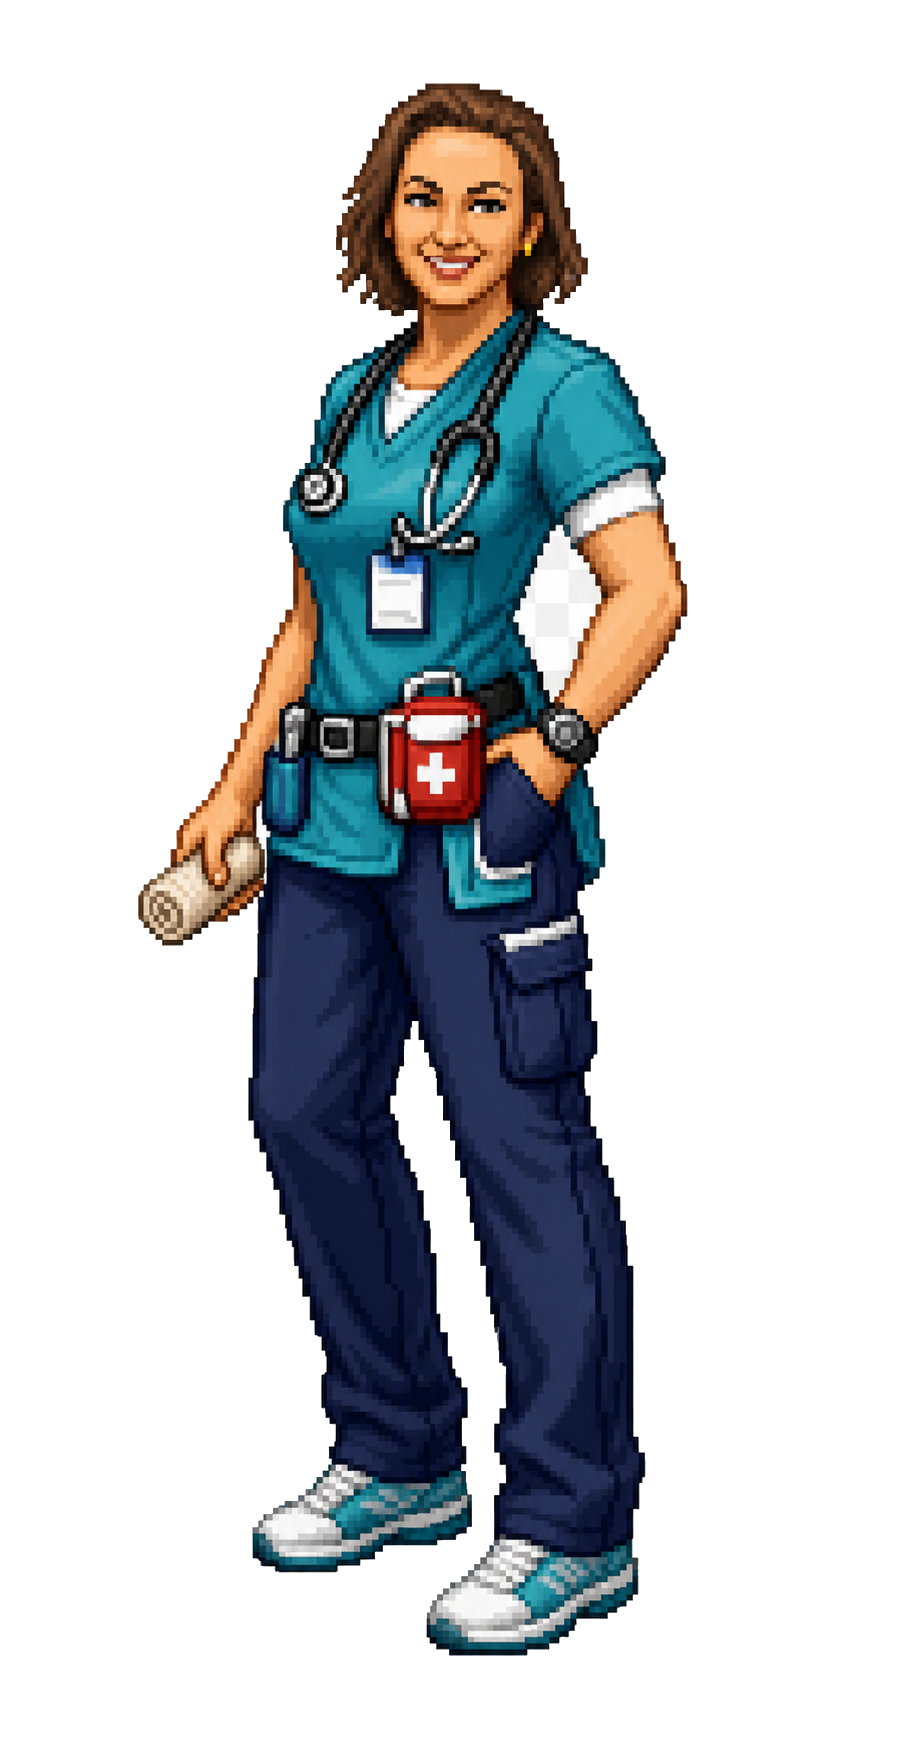
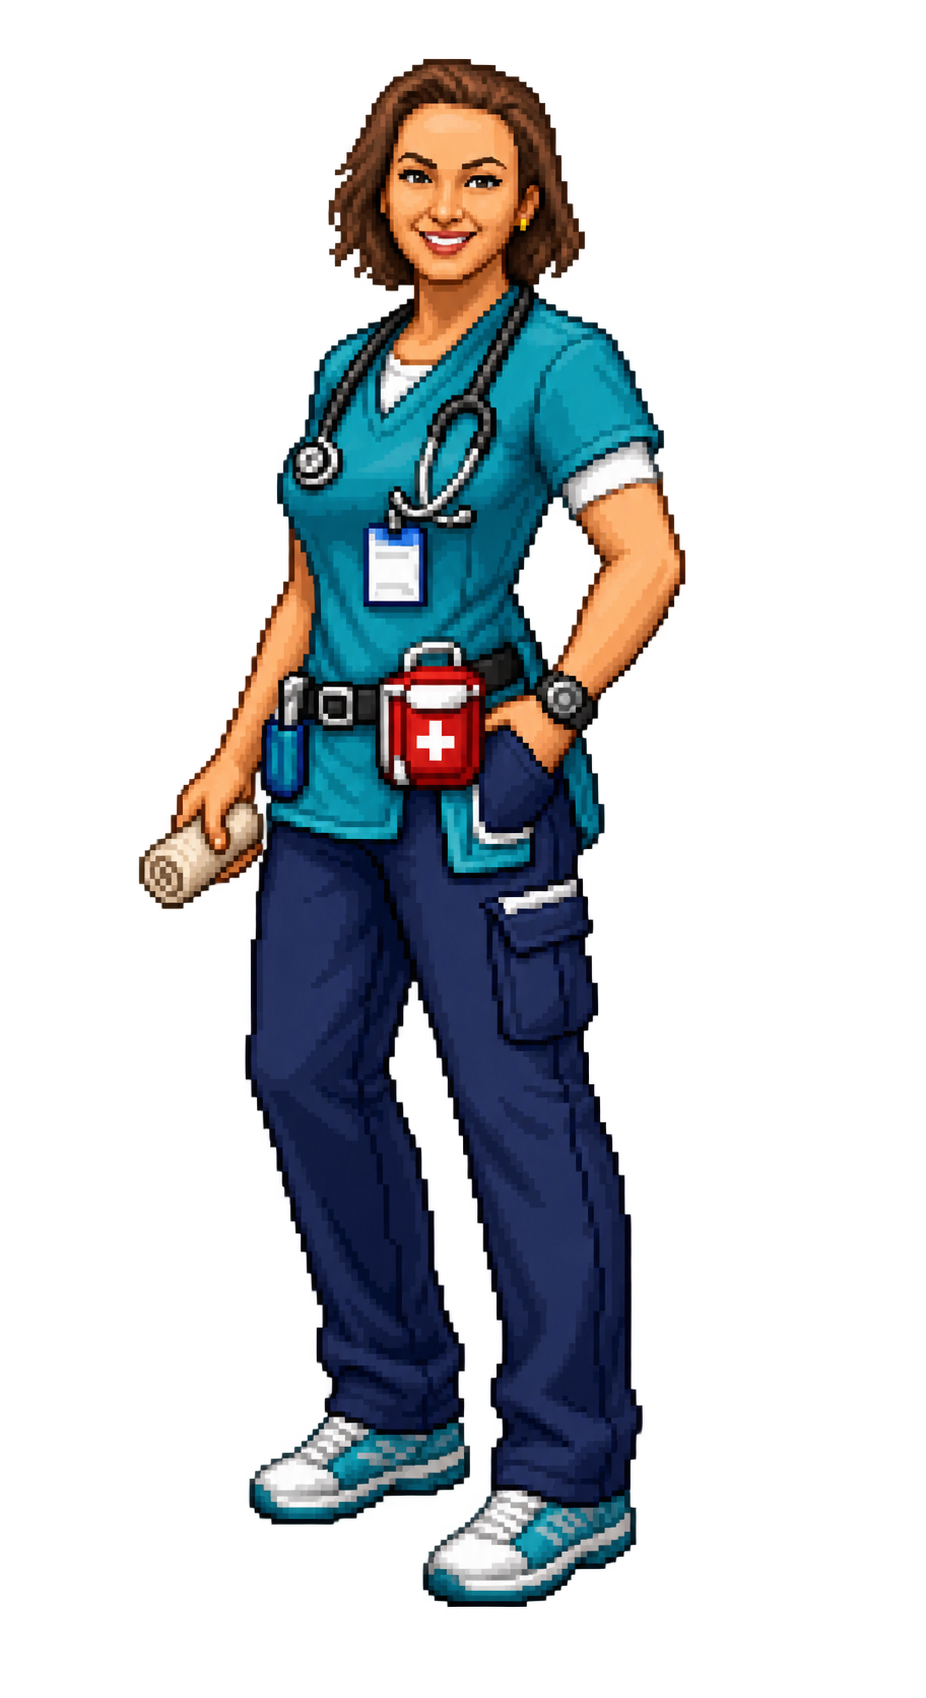
Correction du nom et de la transparence de Cecilia

Changed region(s): [[0.1247, 0.0312, 0.7795, 0.9676]]

diff --git a/game.js b/game.js
@@ -1,6 +1,6 @@
 const COLORS={red:'Rouge',yellow:'Jaune',violet:'Violet',gray:'Gris',brown:'Urgentiste',green:'Chirurgien',blue:'Anesthésiste'};
 const icons={brown:`<svg class="med-icon" viewBox="0 0 48 48"><path d="M10 16h28v20H10zM18 16v-5h12v5M18 25h12M24 19v12"/><path d="M7 21h3M38 21h3"/></svg>`,green:`<svg class="med-icon" viewBox="0 0 48 48"><path d="M9 12h30v24H9zM19 12v24M30 12v24M9 20h30"/><path d="M23 26l8-8M26 31l9-9M31 32l4-4"/></svg>`,blue:`<svg class="med-icon" viewBox="0 0 48 48"><path d="M15 17c2-5 16-5 18 0l3 12c-3 7-21 7-24 0z"/><path d="M18 20c4 3 8 3 12 0M24 33v7M24 40h10M36 40c3 0 5-2 5-5v-7"/></svg>`};
-const CHARACTERS=[['Pascal','pascal-pirate.png'],['Mathieu','mathieu-luchador.png'],['Pierre','pierre-halloween.png'],['Adéla','adela-egyptienne.png'],['JB','jb-cosmonaute.png'],['Romain','romain-poulet.png'],['Natacha','natacha-princesse.png'],['Fanny','fanny-exploratrice.png'],['Félix','felix-cyborg.png'],['Youri','youri-paladin.png'],['Quentin','quentin-dictateur.png'],['Nicolas','nicolas-vigilante.png'],['Yannick','yannick-cardinal.png'],['Cécilia','cecilia-infirmiere.png'],['Thibault','thibault-aventurier.png'],['Polo','polo-dandy.png'],['Édouard','edouard-aviateur.png'],['Justin','justin-judoka.png'],['Charlotte','charlotte-cavaliere.png'],["Catoire d’Arabie",'catoire-arabie.png'],['Rémy','remy-shaolin.png'],['Olivier','olivier-policier.png'],['Raphaël','raphael-scaphandrier.png'],['Éric','eric-druide.png']];
+const CHARACTERS=[['Pascal','pascal-pirate.png'],['Mathieu','mathieu-luchador.png'],['Pierre','pierre-halloween.png'],['Adéla','adela-egyptienne.png'],['JB','jb-cosmonaute.png'],['Romain','romain-poulet.png'],['Natacha','natacha-princesse.png'],['Fanny','fanny-exploratrice.png'],['Félix','felix-cyborg.png'],['Youri','youri-paladin.png'],['Quentin','quentin-dictateur.png'],['Nicolas','nicolas-vigilante.png'],['Yannick','yannick-cardinal.png'],['Cecilia','cecilia-infirmiere.png'],['Thibault','thibault-aventurier.png'],['Polo','polo-dandy.png'],['Édouard','edouard-aviateur.png'],['Justin','justin-judoka.png'],['Charlotte','charlotte-cavaliere.png'],["Catoire d’Arabie",'catoire-arabie.png'],['Rémy','remy-shaolin.png'],['Olivier','olivier-policier.png'],['Raphaël','raphael-scaphandrier.png'],['Éric','eric-druide.png']];
 const $=id=>document.getElementById(id);let socket,state,session=JSON.parse(localStorage.getItem('duel-session')||'null'),lastChatCount=0;
 const special=c=>['brown','green','blue'].includes(c);const characterFile=name=>CHARACTERS.find(c=>c[0]===name)?.[1]||CHARACTERS[0][1];
 const esc=value=>String(value).replace(/[&<>"']/g,c=>({'&':'&amp;','<':'&lt;','>':'&gt;','"':'&quot;',"'":'&#39;'}[c]));
